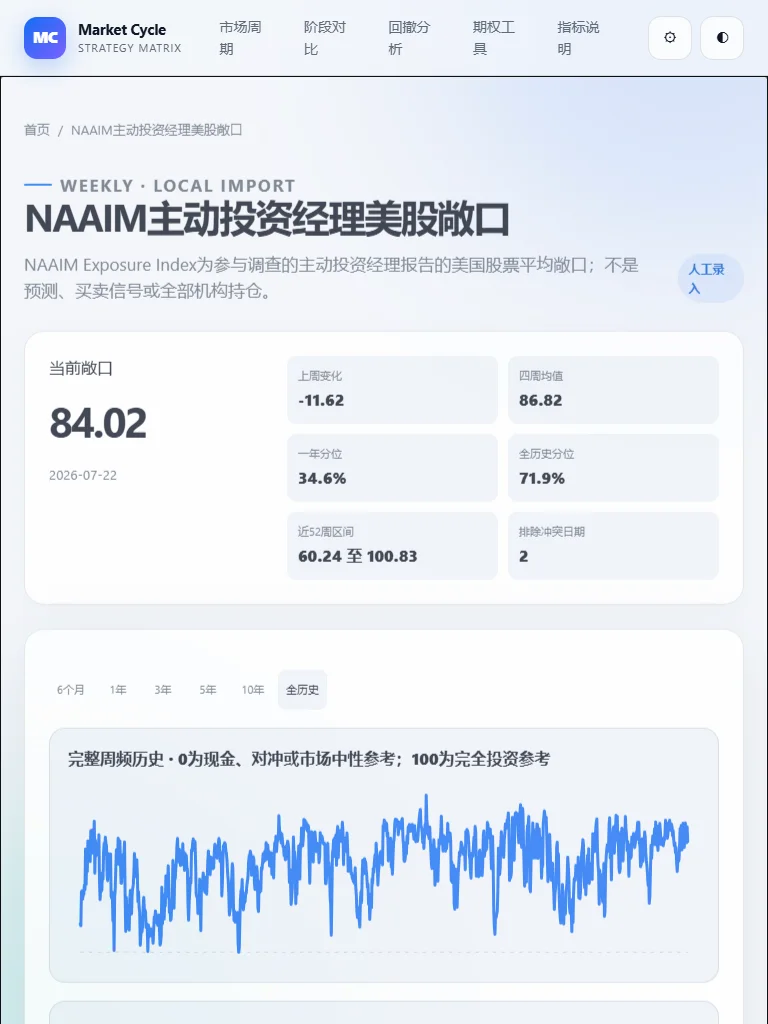
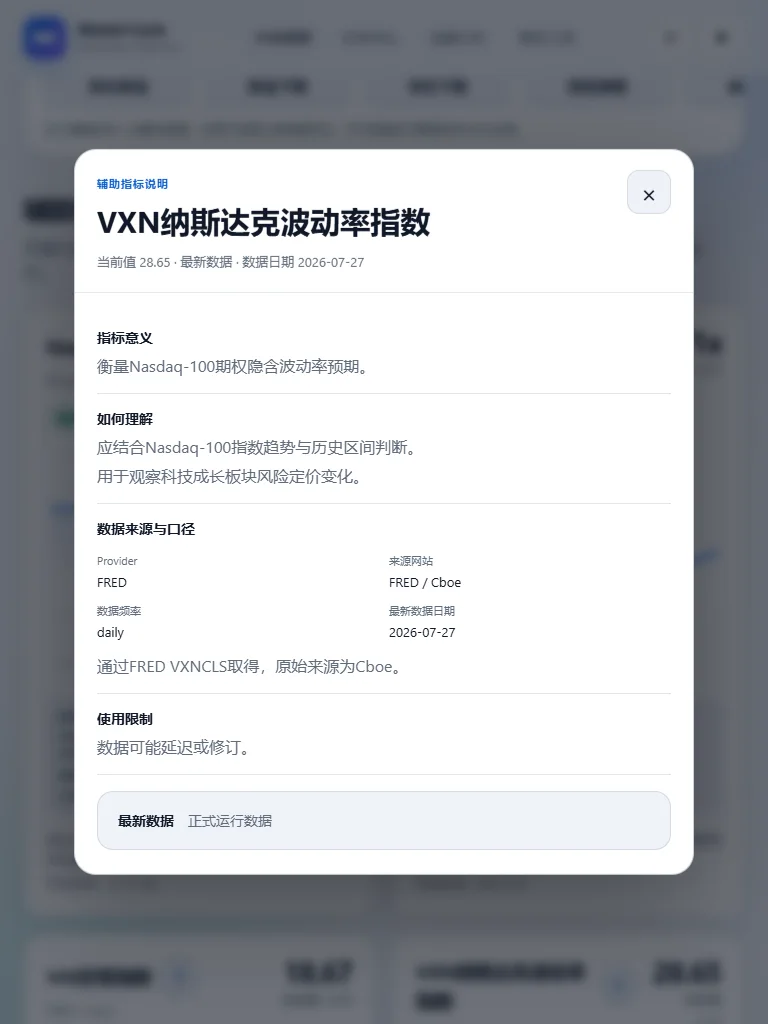
chore: refresh current visual review

diff --git a/previews/current/manifest.md b/previews/current/manifest.md
@@ -1,31 +1,36 @@
 # Current Visual Review
 
-- Commit: 203162f049aafbde0c638de840a1947f31119e41
-- Generated at: 2026-07-29T06:14:30.790Z
+- Commit: d88fb7772d782ad05524f06e8d8f47fa7cf8f423
+- Generated at: 2026-07-29T11:50:09.094Z
 - Application version: 0.5.0-dev
-- Route: #/indicator/naaim-exposure, #/, #/settings
+- Route: #/
 - Viewports: 1440x900, 768x1024, 390x844
 - Data mode: local-production-cache
 - Repository visibility: private
 - Service health: ready
 - External requests triggered: 0
-- NAAIM conflict policy: exclude_conflicting_dates
-- Excluded conflict date count: 2
 - Privacy scan: passed
-- Changed feature: NAAIM主动投资经理美股敞口本地导入与页面接入
-- Interaction state: NAAIM周频历史与排除冲突日期说明
+- Changed feature: 首页六类辅助指标说明合并为原位Dialog
+- Interaction state: 指标说明弹窗、iPhone内容滚动和关闭后首页
+- Animation type: shared-element FLIP
+- Open origin: indicator info button
+- Close destination: indicator info button
+- Route changed: false
+- Scroll position preserved: true
 - Known limitations: 快照不替代真实触摸设备验收。
 
 ## Files
 
 | File | Viewport | Route | Purpose |
 |---|---|---|---|
-| [desktop.webp](desktop.webp) | 1440x900 | #/indicator/naaim-exposure | NAAIM详情页桌面 |
-| [ipad.webp](ipad.webp) | 768x1024 | #/indicator/naaim-exposure | NAAIM详情页平板布局 |
-| [iphone.webp](iphone.webp) | 390x844 | #/indicator/naaim-exposure | NAAIM详情页手机布局 |
-| [home-desktop.webp](home-desktop.webp) | 1440x900 | #/ | 首页NAAIM宽卡 |
+| [desktop.webp](desktop.webp) | 1440x900 | #/ | 首页VIX指标说明弹窗 |
+| [ipad.webp](ipad.webp) | 768x1024 | #/ | 首页VXN指标说明弹窗 |
+| [iphone.webp](iphone.webp) | 390x844 | #/ | 首页中部指标说明弹窗 |
+| [indicator-pe-desktop.webp](indicator-pe-desktop.webp) | 1440x900 | #/ | 首页Nasdaq-100 PE指标说明弹窗 |
+| [iphone-dialog-scroll.webp](iphone-dialog-scroll.webp) | 390x844 | #/ | 手机指标说明内容滚动状态 |
+| [home-desktop.webp](home-desktop.webp) | 1440x900 | #/ | 关闭弹窗后的首页正常状态 |
 | [settings-desktop.webp](settings-desktop.webp) | 1440x900 | #/settings | 设置页NAAIM Provider |
-| [contact-sheet.webp](contact-sheet.webp) | visual index | #/indicator/naaim-exposure | Desktop, iPad and iPhone index |
+| [contact-sheet.webp](contact-sheet.webp) | visual index | #/ | Desktop, iPad and iPhone index |
 
 ## Validation
 
